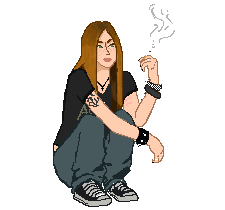
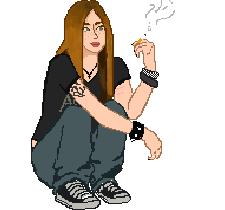
fix: pixel bela on abt me

Changed region(s): [[0.1244, 0.0, 0.7778, 1.0], [0.7467, 0.1429, 0.7778, 0.1714]]

diff --git a/aboutMe.html b/aboutMe.html
@@ -36,7 +36,7 @@
                     
                     <div class="linkBack">
                         <h2 class="linkTitle"> Button: </h2>
-                            <a href="https://sosbela.neocities.org">
+                            <a href="https://belasgamingroom.neocities.org">
                                 <img src="buttons/button.gif" width="88" height="31" alt="Bela's Room">
                             </a>
                             <h2 class="linkTitle"> Code: </h2>
